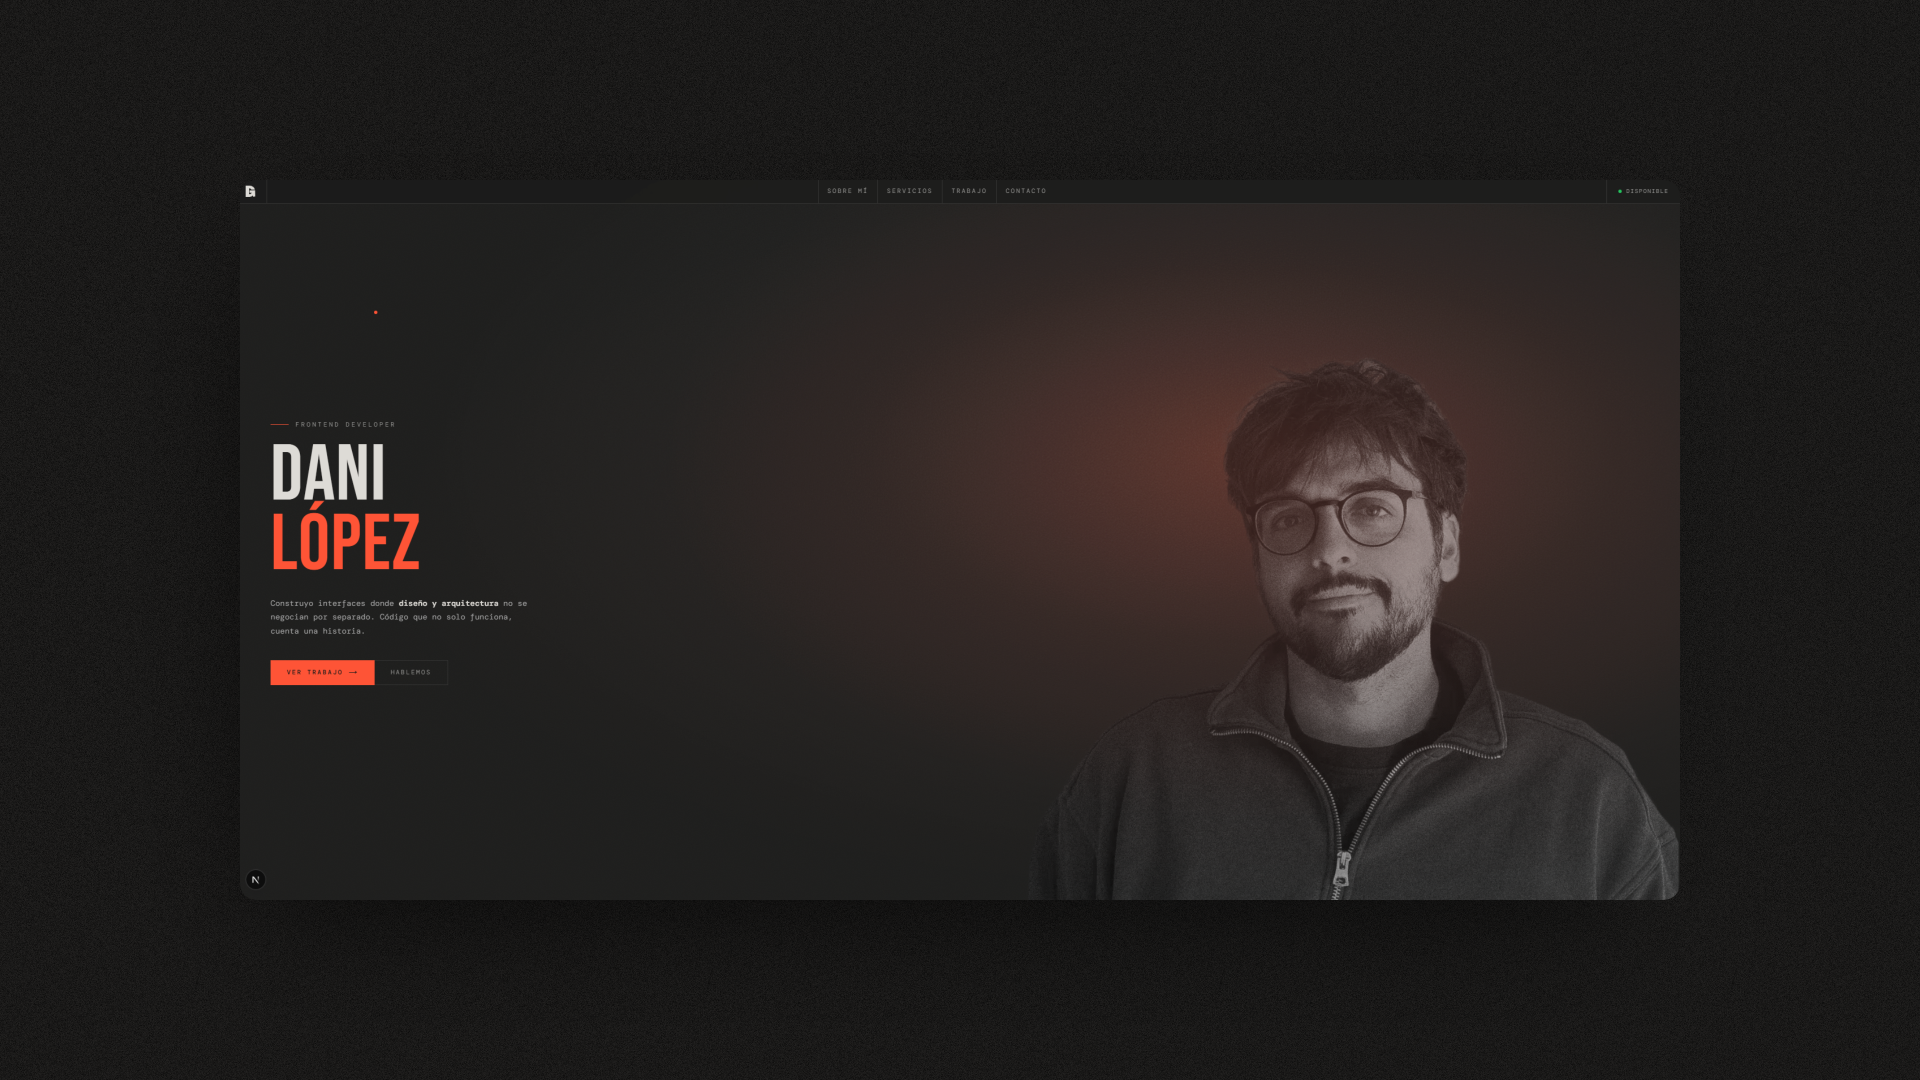
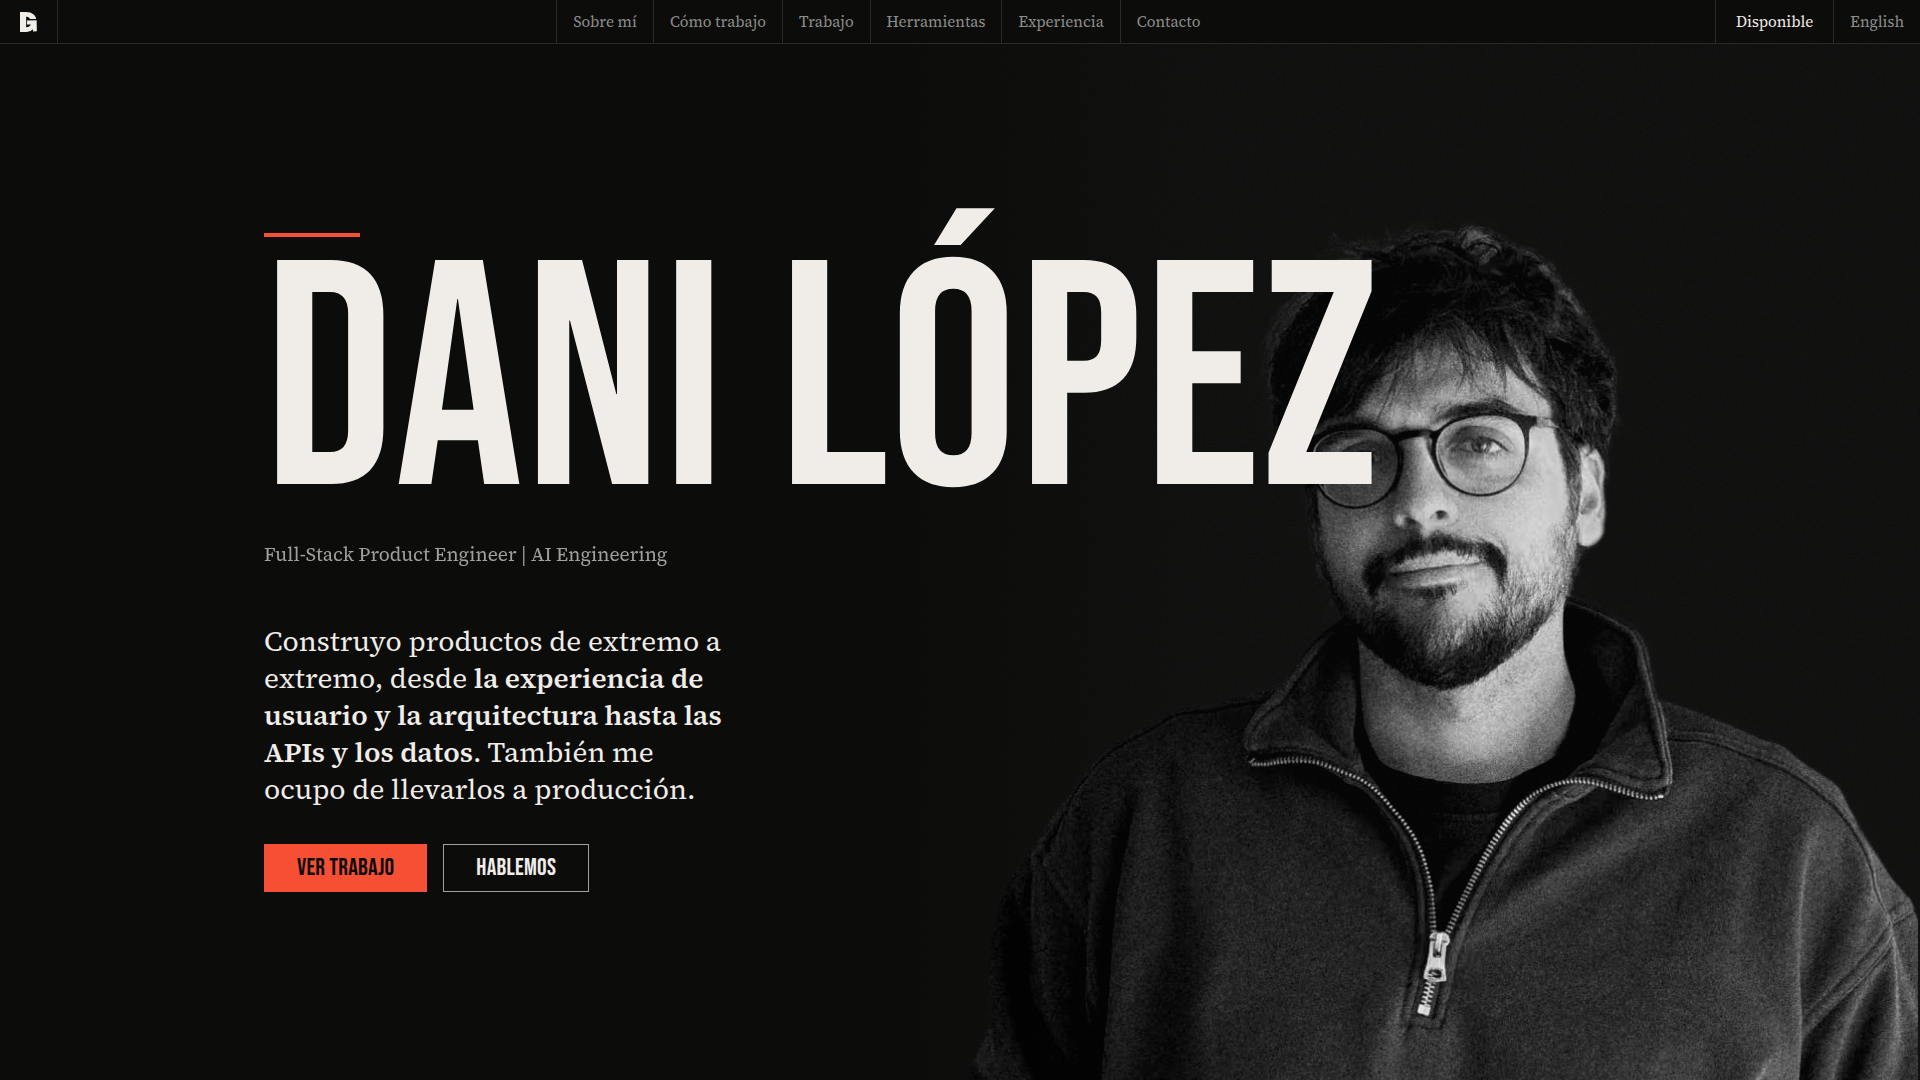
📝 Actualizar README, contexto de diseño y captura de preview

diff --git a/README.md b/README.md
@@ -1,12 +1,12 @@
 # Portfolio — Dani López González
 
-> Product Engineer · Frontend & AI Engineering.
+> Full-Stack Product Engineer | AI Engineering.
 >
-> Sistemas donde la arquitectura y la experiencia se diseñan juntas.
+> Construyo productos de extremo a extremo, desde la experiencia de usuario y la arquitectura hasta las APIs y los datos.
 
 ![Preview del portfolio](public/images/preview.png)
 
-Stack: Next.js 16 · TypeScript · Tailwind CSS · GSAP
+Stack: Next.js 16 · TypeScript · Tailwind CSS · GSAP · WebGL (shader propio, sin librería)
 
 ## Arrancar
 
@@ -32,7 +32,7 @@ Usamos **pnpm como gestor único de dependencias** (`pnpm@10.18.0`): `pnpm-lock.
 | `resend`                  | Envío de emails desde el API route                   |
 | `@react-email/*`          | Template HTML del email de contacto                  |
 
-Todo lo demás es vanilla — sin shadcn, sin component libraries.
+Todo lo demás es vanilla — sin shadcn, sin component libraries. El efecto de dither es un shader WebGL escrito a mano (`DitherImage`), sin three.js.
 
 ## Trayectoria profesional mantenible
 
@@ -45,26 +45,35 @@ La home conserva su selección breve y ofrece solo un enlace discreto a **Trayec
 ```
 src/
 ├── app/
-│   ├── layout.tsx              # fuentes, Toaster global
+│   ├── layout.tsx              # fuentes (Bebas Neue, Source Serif 4, DM Mono), Toaster global
 │   ├── page.tsx
-│   ├── globals.css
-│   ├── opengraph-image.tsx
+│   ├── globals.css             # tokens de marca y sello de Hallmark
+│   ├── opengraph-image.tsx     # tarjeta para compartir (misma composición que el hero)
+│   ├── career.md/route.ts      # trayectoria completa en Markdown
+│   ├── llms.txt/route.ts       # índice para agentes
 │   ├── sitemap.ts
 │   ├── robots.ts
 │   ├── enlaces/page.tsx        # página de links (bio link)
 │   └── api/contact/route.ts    # Resend
+├── assets/
+│   └── og-portrait.png         # retrato en B/N para la tarjeta OG
+├── fonts/                      # fuentes que lee la tarjeta OG
 ├── components/
 │   ├── layout/
 │   │   ├── Navbar.tsx
 │   │   └── Footer.tsx
 │   ├── sections/
-│   │   ├── Hero.tsx
+│   │   ├── Hero.tsx            # nombre como titular de portada + lupa de dither
 │   │   ├── About.tsx
 │   │   ├── Skills.tsx
 │   │   ├── Projects.tsx        # datos desde lib/projects.ts
+│   │   ├── Tooling.tsx         # datos desde lib/tooling.ts
+│   │   ├── Experience.tsx      # datos desde content/career
 │   │   └── Contact.tsx         # react-hook-form + zod + Sonner
 │   └── ui/
-│       ├── Ticker.tsx
+│       ├── SectionHeader.tsx   # filete coral + título en Bebas
+│       ├── DitherImage.tsx     # lupa de dither en WebGL (hero y proyectos)
+│       ├── BalancedChips.tsx   # filas de chips equilibradas, sin huérfanos
 │       ├── CursorDot.tsx
 │       ├── RevealOnScroll.tsx
 │       ├── Label.tsx           # Radix Label
@@ -73,8 +82,11 @@ src/
 │   └── ContactEmail.tsx        # template React Email
 └── lib/
     ├── utils.ts                # cn()
+    ├── career.ts               # fichas de content/career → home y /career.md
     ├── projects.ts
     ├── skills.ts
+    ├── tooling.ts
+    ├── motion.ts               # tokens de movimiento (GSAP + CSS)
     ├── rate-limit.ts
     └── schemas/contact.ts      # schema Zod compartido
 ```
@@ -83,7 +95,7 @@ src/
 
 Personal portfolio built by **Dani López González** ([@danilopgon](https://github.com/danilopgon)), full-stack Product Engineer specialised in frontend, based in Cuenca, Spain.
 
-Designed with a brutalist aesthetic and built without component libraries: every element is intentional. The project presents work across React, Next.js, Angular, TypeScript, Node.js, Python/FastAPI and applied AI tooling, while the codebase demonstrates production-grade full-stack architecture: typed forms with Zod + React Hook Form, scroll-driven animations with GSAP, accessible UI primitives via Radix, and transactional email via Resend and React Email.
+Designed like a dark magazine feature: Bebas Neue for the name and section heads, Source Serif 4 for reading text, one coral rule as the only signal, and a hand-written WebGL dither loupe over the portrait and project captures. Built without component libraries: every element is intentional. The project presents work across React, Next.js, Angular, TypeScript, Node.js, Python/FastAPI and applied AI tooling, while the codebase demonstrates production-grade full-stack architecture: typed forms with Zod + React Hook Form, scroll-driven animations with GSAP, accessible UI primitives via Radix, and transactional email via Resend and React Email.
 
-Stack: Next.js · TypeScript · Tailwind CSS · GSAP  
+Stack: Next.js · TypeScript · Tailwind CSS · GSAP · WebGL  
 Live: [danilopgon.com](https://danilopgon.com)

diff --git a/.impeccable.md b/.impeccable.md
@@ -12,10 +12,10 @@ Creative, technical, good communicator. The interface should feel like a person 
 
 ### Aesthetic Direction
 
-- **Established palette**: Coral `#f55033` on near-black `#0c0c0b`, cream `#f0ede8` — raw, editorial, industrial
-- **Typography**: Bebas Neue (display) + DM Mono (body) — intentional editorial pairing
-- **Visual language**: Grid with thin border dividers, section numbering, `//` markers, crosshair cursor, monospace precision
-- **Anti-references**: Generic AI-generated dark mode with purple-to-blue gradients, neon glow accents, glassmorphism, pastel palettes
+- **Established palette**: Coral `#f55033` on near-black `#0c0c0b`, cream `#f0ede8`. Coral is the only signal: the rule over the name and each section head, the primary button, the timeline node, the dither loupe.
+- **Typography**: Bebas Neue (the name, section heads, card titles, buttons) + Source Serif 4 (reading text, the hero standfirst, nav and labels in sentence case). DM Mono only for real artifacts: repo/tool names and the `career.md` link. No tracked capitals, no `//` markers.
+- **Visual language**: a dark magazine feature. The hero is a cover line: DANI LÓPEZ on one line crossing a black-and-white portrait that fills the right half and melts into the page; a coral rule opens the hero and every section; grid with thin border dividers and section numbers. A hand-written WebGL ordered-dither loupe (black, coral, cream) appears under the pointer on the portrait and project captures.
+- **Anti-references**: Generic AI-generated dark mode with purple-to-blue gradients, neon glow accents, radial glows behind photos, glassmorphism, pastel palettes, monospace everywhere, terminal costume (`$ cat file.log`), marquee tickers
 - **Theme**: Dark only — the current direction is right, don't soften it
 
 ### Design Principles
